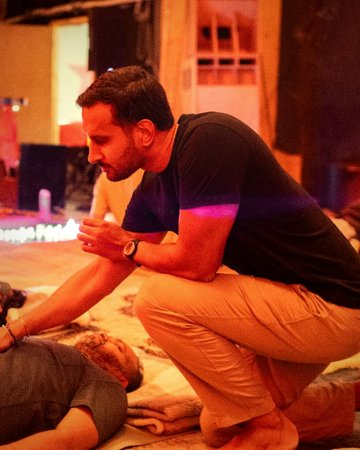
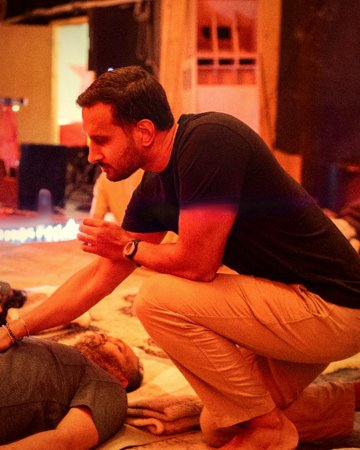
Update event images and enhance styles for improved presentation
- Replaced the outdated room image with a new circle image in events.html and index.html for better representation of the Inner Exhale event.
- Enhanced styles.css by adding a radial gradient mask for improved visual effects and adjusting figcaption styles for better alignment.
- Updated the image processing script to refine the visual output of hero images, ensuring a polished appearance across the site.

Changed region(s): [[0.0, 0.4044, 0.2139, 0.5289], [0.4889, 0.4356, 0.6722, 0.4978], [0.4278, 0.4356, 0.4583, 0.4978]]

diff --git a/events.html b/events.html
@@ -112,7 +112,7 @@
                 </video>
               </figure>
               <figure class="event-media event-media-wide">
-                <img src="assets/events/inner-exhale/inner-exhale-room.jpg" alt="The warehouse at Mothership Studios in low amber light, with participants lying on rugs either side of Suraj and Bianca at the front" width="1024" height="682" loading="lazy" decoding="async">
+                <img src="assets/events/inner-exhale/inner-exhale-circle.jpg" alt="Participants sitting in a circle with hands on chest and belly, following Suraj’s demonstration during The Inner Exhale" width="1024" height="682" loading="lazy" decoding="async">
               </figure>
               <figure class="event-media event-media-tall">
                 <img src="assets/events/inner-exhale/inner-exhale-drum.jpg" alt="A frame drum carried slowly between the rows of people lying on the floor" width="682" height="1024" loading="lazy" decoding="async">

diff --git a/index.html b/index.html
@@ -417,7 +417,7 @@
               </video>
             </figure>
             <figure class="event-media event-media-tall">
-              <img src="assets/events/inner-exhale/inner-exhale-room.jpg" alt="The warehouse at Mothership Studios in low amber light, with participants lying on rugs either side of Suraj and Bianca at the front" width="1024" height="682" loading="lazy" decoding="async">
+              <img src="assets/events/inner-exhale/inner-exhale-circle.jpg" alt="Participants sitting in a circle with hands on chest and belly, following Suraj’s demonstration during The Inner Exhale" width="1024" height="682" loading="lazy" decoding="async">
             </figure>
             <figure class="event-media event-media-tall">
               <img src="assets/events/inner-exhale/inner-exhale-drum.jpg" alt="A frame drum carried slowly between the rows of people lying on the floor" width="682" height="1024" loading="lazy" decoding="async">

diff --git a/styles.css b/styles.css
@@ -636,9 +636,14 @@ p {
   aspect-ratio: 4 / 5;
   object-fit: cover;
   object-position: 50% 50%;
+  --fade: radial-gradient(ellipse 50% 50% at 50% 50%, #000 42%, rgba(0, 0, 0, 0.6) 68%, transparent 100%);
+  -webkit-mask-image: var(--fade);
+  mask-image: var(--fade);
 }
 
 .hero-figure figcaption {
+  margin-top: -36px;
+  text-align: center;
   font-size: 0.8rem;
   color: var(--mist);
 }

diff --git a/tmp/make_hero_facilitating.py b/tmp/make_hero_facilitating.py
@@ -2,7 +2,7 @@
 """Crop + grade the Inner Exhale guiding photo for the site hero."""
 import os
 import numpy as np
-from PIL import Image, ImageEnhance
+from PIL import Image, ImageEnhance, ImageFilter
 
 ROOT = os.path.dirname(os.path.dirname(os.path.abspath(__file__)))
 SRC = os.path.join(ROOT, "assets", "events", "inner-exhale", "inner-exhale-guiding.jpg")
@@ -29,18 +29,32 @@ a[..., 2] = a[..., 2] * 0.90
 y = np.linspace(0, 1, out_h, dtype=np.float32)[:, None]
 x = np.linspace(0, 1, out_w, dtype=np.float32)[None, :]
 
-# Soften the purple/blue lens-flare streak across the mid torso / arm.
-# Magenta flare: blue high vs green, in a thin horizontal band.
-purple = np.clip((a[..., 2] - a[..., 1]) / 28.0, 0, 1)
-blueish = np.clip((a[..., 2] - a[..., 0] * 0.7) / 40.0, 0, 1)
-band = np.exp(-0.5 * ((y - 0.49) / 0.07) ** 2)
-horiz = np.exp(-0.5 * ((x - 0.45) / 0.42) ** 2)
-flare = np.clip(np.maximum(purple, blueish) * band * horiz * 2.2, 0, 1)
-# Paint the streak with neighbouring warm amber instead of blue
-amber = a[..., 0] * 0.50 + a[..., 1] * 0.40 + 12
-a[..., 2] = a[..., 2] * (1 - flare) + amber * flare
-a[..., 0] = np.minimum(255, a[..., 0] + flare * 8)
-a[..., 1] = np.minimum(255, a[..., 1] + flare * 4)
+# Fill the magenta lens-flare streak (R and B both well above G, in a band
+# across the arm/chest) with the surrounding colours, via a masked blur.
+mag = (np.clip((a[..., 0] - a[..., 1] - 35) / 40, 0, 1)
+       * np.clip((a[..., 2] - a[..., 1] - 15) / 35, 0, 1))
+band = np.exp(-0.5 * ((y - 0.49) / 0.08) ** 2)
+m = Image.fromarray((np.clip(mag * band, 0, 1) * 255).astype(np.uint8))
+m = np.asarray(m.filter(ImageFilter.MaxFilter(9)).filter(ImageFilter.GaussianBlur(6)),
+               np.float32) / 255
+keep = 1 - m
+num = Image.fromarray(np.clip(a * keep[..., None], 0, 255).astype(np.uint8))
+den = Image.fromarray((keep * 255).astype(np.uint8))
+num = np.asarray(num.filter(ImageFilter.GaussianBlur(22)), np.float32)
+den = np.asarray(den.filter(ImageFilter.GaussianBlur(22)), np.float32)[..., None] / 255
+fill = num / np.maximum(den, 0.05)
+a = a * keep[..., None] + fill * m[..., None]
+
+# The same streak tints the black shirt blue-purple; pull it back to warm black.
+# Kept right of the fairy lights (x > 0.3) so those stay blue.
+cool = (np.clip((a[..., 2] - a[..., 1] - 8) / 25, 0, 1)
+        * np.clip((a[..., 2] - 0.5 * a[..., 0]) / 20, 0, 1))
+shirt_band = np.exp(-0.5 * ((y - 0.48) / 0.06) ** 2) * np.clip((x - 0.3) / 0.05, 0, 1)
+c = Image.fromarray((np.clip(cool * shirt_band, 0, 1) * 255).astype(np.uint8))
+c = np.asarray(c.filter(ImageFilter.GaussianBlur(3)), np.float32)[..., None] / 255
+mean = a.mean(axis=2, keepdims=True)
+warm_black = mean * np.array([1.25, 0.55, 0.45], np.float32) * 0.75
+a = a * (1 - c) + warm_black * c
 
 # Gentle face lift
 face = np.exp(-(((x - 0.58) / 0.22) ** 2 + ((y - 0.22) / 0.18) ** 2))
